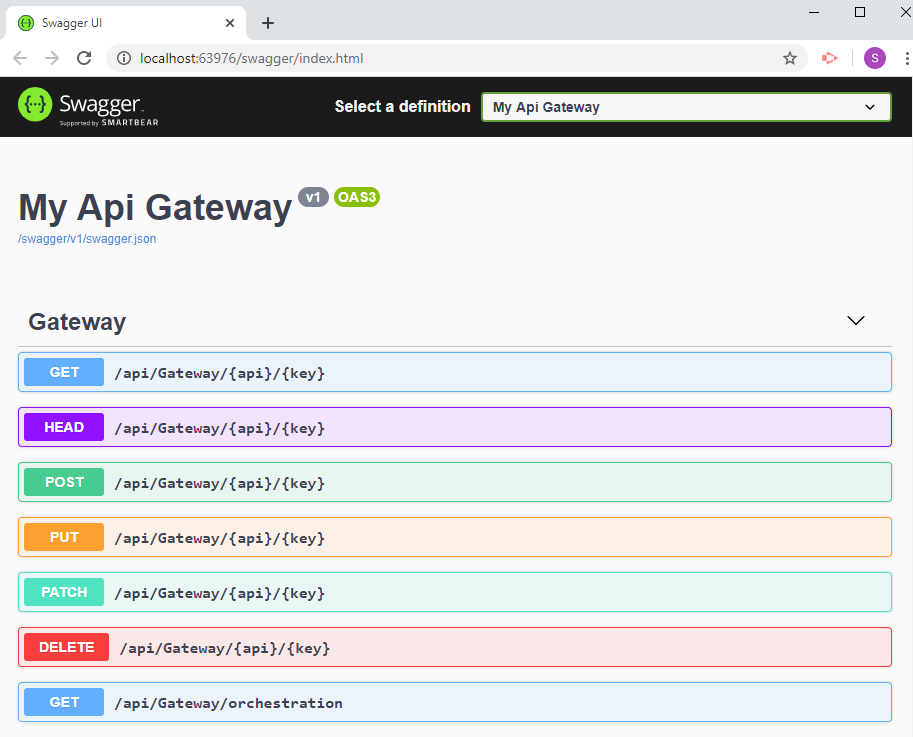
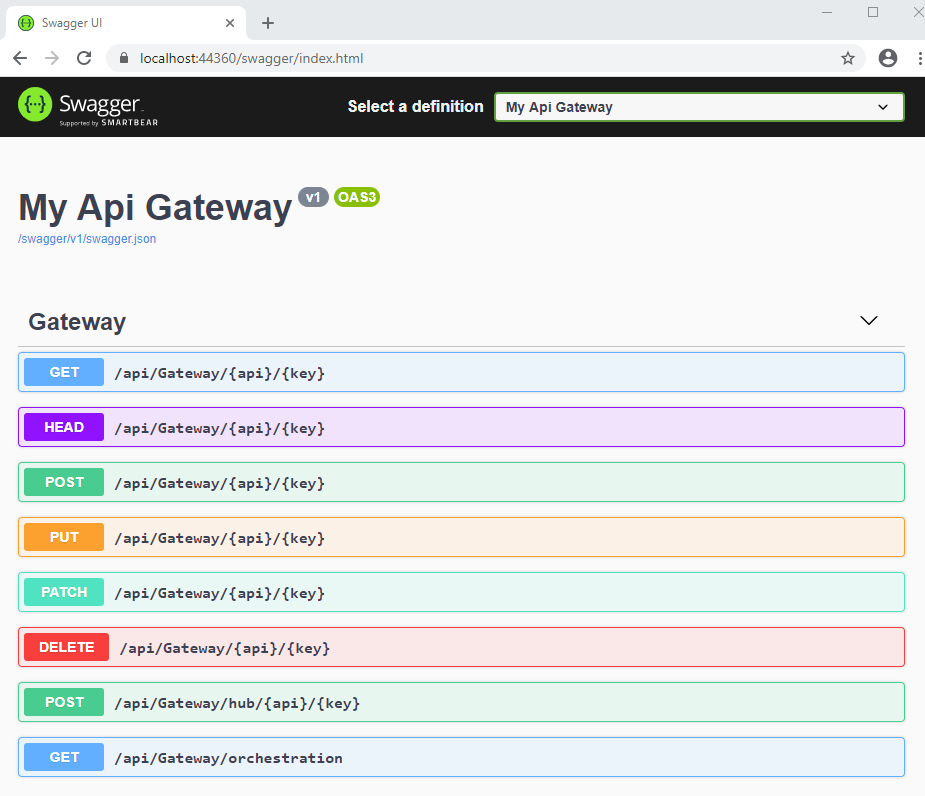
added support for web sockets.

diff --git a/AspNetCore.ApiGateway/Application/Mediator.cs b/AspNetCore.ApiGateway/Application/Mediator.cs
@@ -1,4 +1,5 @@
 using Microsoft.AspNetCore.Http;
+using Microsoft.AspNetCore.SignalR.Client;
 using NJsonSchema;
 using System;
 using System.Collections.Generic;
@@ -32,6 +33,8 @@ namespace AspNetCore.ApiGateway
         public GatewayVerb Verb { get; set; }
 
         public RouteInfo Route { get; set; }
+
+        public HubRouteInfo HubRoute { get; set; }
     }
 
     public class RouteInfo
@@ -43,6 +46,48 @@ namespace AspNetCore.ApiGateway
         public HttpClientConfig HttpClientConfig { get; set; }
     }
 
+    public class HubRouteInfo
+    {
+        public string InvokeMethod { get; set; }
+    }
+
+
+    public class HubMediator : IHubMediator
+    {
+        private readonly IApiOrchestrator _orchestrator;
+        Dictionary<string, GatewayRouteInfo> paths = new Dictionary<string, GatewayRouteInfo>();
+
+        public HubMediator(IApiOrchestrator orchestrator)
+        {
+            _orchestrator = orchestrator;
+        }
+
+        public IHubMediator AddHub(string apiKey, Func<HubConnectionBuilder, HubConnection> connectionBuilder)
+        {
+            _orchestrator.AddHub(apiKey, connectionBuilder);
+
+            return this;
+        }
+
+        public IHubMediator AddRoute(string key, HubRouteInfo routeInfo)
+        {
+            var gatewayRouteInfo = new GatewayRouteInfo
+            {
+                Verb = GatewayVerb.POST,
+                HubRoute = routeInfo
+            };
+
+            paths.Add(key.ToLower(), gatewayRouteInfo);
+
+            return this;
+        }
+
+        public GatewayRouteInfo GetRoute(string key)
+        {
+            return paths[key.ToLower()];
+        }
+
+    }
 
     public class Mediator : IMediator
     {
@@ -82,9 +127,9 @@ namespace AspNetCore.ApiGateway
             return this;
         }
 
-        public IMediator AddApi(string apiKey, string baseUrl)
+        public IMediator AddApi(string apiKey, params string[] baseUrls)
         {
-            _apiOrchestrator.AddApi(apiKey, baseUrl);
+            _apiOrchestrator.AddApi(apiKey, baseUrls);
 
             return _apiOrchestrator.GetApi(apiKey).Mediator;
         }
@@ -112,6 +157,12 @@ namespace AspNetCore.ApiGateway
 
             return JsonSchema.FromType(type);
         }
+
+        public IHubMediator AddHub(string apiKey, Func<HubConnectionBuilder, HubConnection> connectionBuilder)
+        {
+            return _apiOrchestrator.AddHub(apiKey, connectionBuilder);
+        }
+
         #endregion
     }
 

diff --git a/AspNetCore.ApiGateway/Application/ApiOrchestrator.cs b/AspNetCore.ApiGateway/Application/ApiOrchestrator.cs
@@ -1,4 +1,6 @@
-using System;
+using Microsoft.AspNetCore.Mvc;
+using Microsoft.AspNetCore.SignalR.Client;
+using System;
 using System.Collections.Generic;
 using System.Linq;
 
@@ -11,9 +13,20 @@ namespace AspNetCore.ApiGateway
         public Mediator Mediator { get; set; }
     }
 
+    public class HubInfo
+    {
+        public string BaseUrl { get; set; }
+
+        public HubMediator Mediator { get; set; }
+
+        public HubConnection Connection { get; set; }
+    }
+
     public class ApiOrchestrator : IApiOrchestrator
     {
         Dictionary<string, ApiInfo> apis = new Dictionary<string, ApiInfo>();
+
+        Dictionary<string, HubInfo> hubs = new Dictionary<string, HubInfo>();
 
         Dictionary<string, string[]> apiUrls = new Dictionary<string, string[]>();
 
@@ -24,6 +37,19 @@ namespace AspNetCore.ApiGateway
             apis.Add(apiKey.ToLower(), new ApiInfo() { BaseUrl = baseUrls.First(), Mediator = mediator });
 
             apiUrls.Add(apiKey.ToLower(), baseUrls);
+
+            return mediator;
+        }
+
+        public IHubMediator AddHub(string apiKey, Func<HubConnectionBuilder, HubConnection> connectionBuilder)
+        {
+            var mediator = new HubMediator(this);
+
+            var cb = new HubConnectionBuilder();
+
+            var conn = connectionBuilder(cb);
+
+            hubs.Add(apiKey.ToLower(), new HubInfo() { Mediator = mediator, Connection = conn });
 
             return mediator;
         }
@@ -40,6 +66,13 @@ namespace AspNetCore.ApiGateway
             {
                 apiInfo.BaseUrl = this.GetLoadBalancingUrl(baseUrls);
             }
+
+            return apiInfo;
+        }
+
+        public HubInfo GetHub(string apiKey)
+        {
+            var apiInfo = hubs[apiKey.ToLower()];
 
             return apiInfo;
         }

diff --git a/AspNetCore.ApiGateway/Application/Middleware/GatewayMiddleware.cs b/AspNetCore.ApiGateway/Application/Middleware/GatewayMiddleware.cs
@@ -28,13 +28,14 @@ namespace AspNetCore.ApiGateway
         public async Task Invoke(HttpContext context, IApiOrchestrator orchestrator, ILogger<ApiGatewayLog> logger)
         {
             ApiInfo apiInfo = null;
+            HubInfo hubInfo = null;
             GatewayRouteInfo routeInfo = null;
 
             try
             {
                 var path = context.Request.Path.Value;
 
-                var segmentsMatch = Regex.Match(path, "^/?api/Gateway(/(?!orchestration)(?<api>.*?)/(?<key>.*?)(/.*?)?)?$", 
+                var segmentsMatch = Regex.Match(path, "^/?api/Gateway(/(?!orchestration)(hub/)?(?<api>.*?)/(?<key>.*?)(/.*?)?)?$", 
                                                     RegexOptions.IgnoreCase | RegexOptions.Compiled);
 
                 if (segmentsMatch.Success)
@@ -42,9 +43,18 @@ namespace AspNetCore.ApiGateway
                     var api = segmentsMatch.Groups["api"].Captures[0].Value;
                     var key = segmentsMatch.Groups["key"].Captures[0].Value;
 
-                    apiInfo = orchestrator.GetApi(api.ToString());
+                    if (path.ToLower().Contains("api/gateway/hub"))
+                    {
+                        hubInfo = orchestrator.GetHub(api);
 
-                    routeInfo = apiInfo.Mediator.GetRoute(key.ToString());
+                        routeInfo = hubInfo.Mediator.GetRoute(key);
+                    }
+                    else
+                    {
+                        apiInfo = orchestrator.GetApi(api.ToString());
+
+                        routeInfo = apiInfo.Mediator.GetRoute(key.ToString());
+                    }                    
 
                     if (routeInfo.Verb.ToString() != context.Request.Method.ToUpper())
                     {

diff --git a/ApiGateway.API/Application/ApiOrchestration.cs b/ApiGateway.API/Application/ApiOrchestration.cs
@@ -1,5 +1,6 @@
 using AspNetCore.ApiGateway;
 using Microsoft.AspNetCore.Builder;
+using Microsoft.AspNetCore.SignalR.Client;
 using Microsoft.Extensions.DependencyInjection;
 using System.Collections.Generic;
 
@@ -36,7 +37,14 @@ namespace ApiGateway.API
                                 .AddRoute("remove", GatewayVerb.DELETE, new RouteInfo { Path = "weatherforecast/types/remove/", ResponseType = typeof(string[]) })
                         .AddApi("stockservice", "http://localhost:63967/")
                                 .AddRoute("stocks", GatewayVerb.GET, new RouteInfo { Path = "stock", ResponseType = typeof(IEnumerable<StockQuote>) })
-                                .AddRoute("stock", GatewayVerb.GET, new RouteInfo { Path = "stock/", ResponseType = typeof(StockQuote) });
+                                .AddRoute("stock", GatewayVerb.GET, new RouteInfo { Path = "stock/", ResponseType = typeof(StockQuote) })                                
+                        .AddHub("chatservice", BuildHubConnection)
+                                .AddRoute("room", new HubRouteInfo { InvokeMethod = "SendMessage" });
+        }
+
+        private static HubConnection BuildHubConnection(HubConnectionBuilder builder)
+        {
+            return builder.WithUrl("http://localhost:53353/ChatHub").Build();
         }
     }
 }

diff --git a/AspNetCore.ApiGateway/Controllers/GatewayController.cs b/AspNetCore.ApiGateway/Controllers/GatewayController.cs
@@ -2,6 +2,7 @@
 using Microsoft.AspNetCore.Http;
 using Microsoft.AspNetCore.JsonPatch;
 using Microsoft.AspNetCore.Mvc;
+using Microsoft.AspNetCore.SignalR.Client;
 using Microsoft.Extensions.Logging;
 using Newtonsoft.Json;
 using System.Linq;
@@ -137,6 +138,24 @@ namespace AspNetCore.ApiGateway.Controllers
                         : await response.Content.ReadAsStringAsync());
                 }
             }
+        }
+
+        [HttpPost]
+        [Route("hub/{api}/{key}")]
+        [ServiceFilter(typeof(GatewayHubPostAuthorizeAttribute))]
+        public async Task PostHub(string api, string key, params object[] request)
+        {
+            _logger.LogApiInfo(api, key, "", request);
+
+            var hubInfo = _apiOrchestrator.GetHub(api);
+
+            var gwRouteInfo = hubInfo.Mediator.GetRoute(key);           
+
+            var connection = hubInfo.Connection;
+
+            await connection.StartAsync();
+
+            await connection.InvokeAsync(gwRouteInfo.HubRoute.InvokeMethod, request);
         }
 
         [HttpPut]

diff --git a/AspNetCore.ApiGateway/Application/IMediator.cs b/AspNetCore.ApiGateway/Application/IMediator.cs
@@ -1,10 +1,20 @@
 using Microsoft.AspNetCore.Http;
+using Microsoft.AspNetCore.SignalR.Client;
 using System;
 using System.Collections.Generic;
 using System.Threading.Tasks;
 
 namespace AspNetCore.ApiGateway
 {
+    public interface IHubMediator
+    {
+        IHubMediator AddHub(string apiKey, Func<HubConnectionBuilder, HubConnection> connectionBuilder);
+
+        IHubMediator AddRoute(string key, HubRouteInfo routeInfo);
+
+        GatewayRouteInfo GetRoute(string key);
+    }
+
     public interface IMediator
     {
         IMediator AddRoute(string key, GatewayVerb verb, RouteInfo routeInfo);
@@ -13,7 +23,9 @@ namespace AspNetCore.ApiGateway
 
         GatewayRouteInfo GetRoute(string key);
 
-        IMediator AddApi(string apiKey, string baseUrl);
+        IMediator AddApi(string apiKey, params string[] baseUrls);
+
+        IHubMediator AddHub(string apiKey, Func<HubConnectionBuilder, HubConnection> connectionBuilder);
 
         IEnumerable<Route> Routes { get; }
     }

diff --git a/AspNetCore.ApiGateway/Application/Authorization/GatewayAuthorizeAttribute.cs b/AspNetCore.ApiGateway/Application/Authorization/GatewayAuthorizeAttribute.cs
@@ -79,6 +79,14 @@ namespace AspNetCore.ApiGateway.Authorization
     }
 
     [AttributeUsage(AttributeTargets.Class | AttributeTargets.Method, AllowMultiple = true, Inherited = true)]
+    internal class GatewayHubPostAuthorizeAttribute : GatewayVerbAuthorizeAttribute
+    {
+        public GatewayHubPostAuthorizeAttribute(IHubPostGatewayAuthorization authorization = null) : base(authorization)
+        {
+        }
+    }
+
+    [AttributeUsage(AttributeTargets.Class | AttributeTargets.Method, AllowMultiple = true, Inherited = true)]
     internal class GatewayPutAuthorizeAttribute : GatewayVerbAuthorizeAttribute
     {
         public GatewayPutAuthorizeAttribute(IPutGatewayAuthorization authorization = null) : base(authorization)

diff --git a/AspNetCore.ApiGateway/Application/IApiOrchestrator.cs b/AspNetCore.ApiGateway/Application/IApiOrchestrator.cs
@@ -1,4 +1,6 @@
-using System.Collections.Generic;
+using Microsoft.AspNetCore.SignalR.Client;
+using System;
+using System.Collections.Generic;
 
 namespace AspNetCore.ApiGateway
 {
@@ -6,7 +8,11 @@ namespace AspNetCore.ApiGateway
     {
         IMediator AddApi(string apiKey, params string[] baseUrl);
 
+        IHubMediator AddHub(string apiKey, Func<HubConnectionBuilder, HubConnection> connectionBuilder);
+
         ApiInfo GetApi(string apiKey);
+
+        HubInfo GetHub(string apiKey);
 
         IEnumerable<Orchestration> Orchestration { get; }
     }

diff --git a/AspNetCore.ApiGateway/Application/Extensions.cs b/AspNetCore.ApiGateway/Application/Extensions.cs
@@ -28,6 +28,7 @@ namespace AspNetCore.ApiGateway
             services.AddScoped<GatewayGetOrHeadAuthorizeAttribute>();
             services.AddScoped<GatewayGetOrchestrationAuthorizeAttribute>();
             services.AddScoped<GatewayPostAuthorizeAttribute>();
+            services.AddScoped<GatewayHubPostAuthorizeAttribute>();
             services.AddScoped<GatewayPutAuthorizeAttribute>();
             services.AddScoped<GatewayPatchAuthorizeAttribute>();
             services.AddScoped<GatewayDeleteAuthorizeAttribute>();

diff --git a/AspNetCore.ApiGateway/Application/Authorization/IGatewayAuthorization.cs b/AspNetCore.ApiGateway/Application/Authorization/IGatewayAuthorization.cs
@@ -25,6 +25,10 @@ namespace AspNetCore.ApiGateway.Authorization
     {
     }
 
+    public interface IHubPostGatewayAuthorization : IGatewayVerbAuthorization
+    {
+    }
+
     public interface IPutGatewayAuthorization : IGatewayVerbAuthorization
     {
     }

diff --git a/README.md b/README.md
@@ -19,6 +19,7 @@ The microservices architecture uses an Api Gateway as shown below.
 *	Swagger support
 *   Load balancing support
 *   Response caching support
+*   Web Sockets support
 
 In the solution, there are 2 **back end APIs** : **Weather API** and **Stock API**.
 
@@ -88,7 +89,14 @@ You add a Route for the backend GET call in the **Api Orchrestrator**.
                                 .AddRoute("remove", GatewayVerb.DELETE, new RouteInfo { Path = "weatherforecast/types/remove/", ResponseType = typeof(string[]) })
                         .AddApi("stockservice", "http://localhost:63967/")
                                 .AddRoute("stocks", GatewayVerb.GET, new RouteInfo { Path = "stock", ResponseType = typeof(IEnumerable<StockQuote>) })
-                                .AddRoute("stock", GatewayVerb.GET, new RouteInfo { Path = "stock/", ResponseType = typeof(StockQuote) });
+                                .AddRoute("stock", GatewayVerb.GET, new RouteInfo { Path = "stock/", ResponseType = typeof(StockQuote) })                                
+                        .AddHub("chatservice", BuildHubConnection)
+                                .AddRoute("room", new HubRouteInfo { InvokeMethod = "SendMessage" });
+        }
+
+        private static HubConnection BuildHubConnection(HubConnectionBuilder builder)
+        {
+            return builder.WithUrl("http://localhost:53353/ChatHub").Build();
         }
     }
 ```
@@ -176,6 +184,10 @@ You can check out how the Api Gateway's endpoint Authorization support below.
 ### Response Caching
 
 ### [Response Caching](Docs/README_ResponseCaching.md)
+
+### Web Sockets
+
+### [Web Sockets](Docs/README_WebSockets.md)
 
 ### Viewing your Gateway's Api Orchestration
 

diff --git a/Docs/README_WebSockets.md b/Docs/README_WebSockets.md
@@ -1,0 +1,30 @@
+### Api Gateway Web Sockets
+
+The Api Gateway supports calling downstream Web Sockets.
+
+You set up a Hub and Route in the **Api Orchestrator**.
+
+```C#
+orchestrator.AddHub("chatservice", BuildHubConnection)
+                    .AddRoute("room", new HubRouteInfo { InvokeMethod = "SendMessage" });
+
+```
+
+```C#
+private static HubConnection BuildHubConnection(HubConnectionBuilder builder)
+{
+    return builder.WithUrl("http://localhost:53353/ChatHub").Build();
+}
+```
+
+In this you set up the **Connection** to the downstream Web Sockets using the **Asp Net Core SignalR Client**.
+
+The **InvokeMethod** is the method that is called in the downstream Hub.
+
+The Gateway provides a **POST** endpoint for accepting requests for downstream Hubs.
+
+You can pass the data in the body of this post request.
+
+In Swagger, you would call this endpoint as below:
+
+![API Gateway Swagger](https://github.com/VeritasSoftware/AspNetCore.ApiGateway/blob/master/Docs/WebSockets.PNG)
